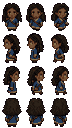
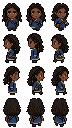
Echoes of Zetwal: Anissa's art; crisper sprite conversion
Anissa's walk sheet (scaled a little smaller than Gianna) and portrait from
the owner's Gemini art. The converter now samples pixel-art sources pixel by
pixel instead of blending, which keeps eyes and ribbons; Gianna redone the same
way.

Claude-Session: https://claude.ai/code/session_01YAnSxFxcnPAhQ8NFJcHZDX

diff --git a/scripts/quest-sprite.py b/scripts/quest-sprite.py
@@ -11,6 +11,9 @@ ap.add_argument('src'); ap.add_argument('out')
 ap.add_argument('--grid', default='4x4'); ap.add_argument('--rows', default='down,left,right,up')
 ap.add_argument('--cols', default='0,1,2'); ap.add_argument('--cell', default='24x32')
 ap.add_argument('--colors', type=int, default=24)
+ap.add_argument('--resample', default='nearest', choices=['nearest', 'smooth'],
+                help='nearest keeps single pixels (eyes) from pixel-art sources; smooth blends')
+ap.add_argument('--fill', type=float, default=1.0, help='sprite height as a share of the cell (smaller characters)')
 ap.add_argument('--sides', default='', help='rows holding side views (e.g. 1,2): frames are sorted by the way they face')
 a = ap.parse_args()
 gc, gr = map(int, a.grid.split('x')); cw, ch = map(int, a.cell.split('x'))
@@ -66,11 +69,15 @@ if a.sides:
 
 tallest = max(f.size[1] for f in frames.values())
 widest = max(f.size[0] for f in frames.values())
-scale = min((ch - 1) / tallest, cw / widest)
+scale = min((ch - 1) * a.fill / tallest, cw / widest)
 
 def shrink(f):
     w, h = max(1, round(f.size[0] * scale)), max(1, round(f.size[1] * scale))
-    s = f.resize((w, h), Image.LANCZOS)
+    if a.resample == 'nearest':
+        # Sample each target pixel at the centre of its source area, so 1-pixel details survive.
+        s = f.resize((w, h), Image.NEAREST, reducing_gap=None)
+    else:
+        s = f.resize((w, h), Image.LANCZOS)
     a_ = s.getchannel('A').point(lambda v: 255 if v > 110 else 0)   # hard pixel edges
     s.putalpha(a_)
     return s
